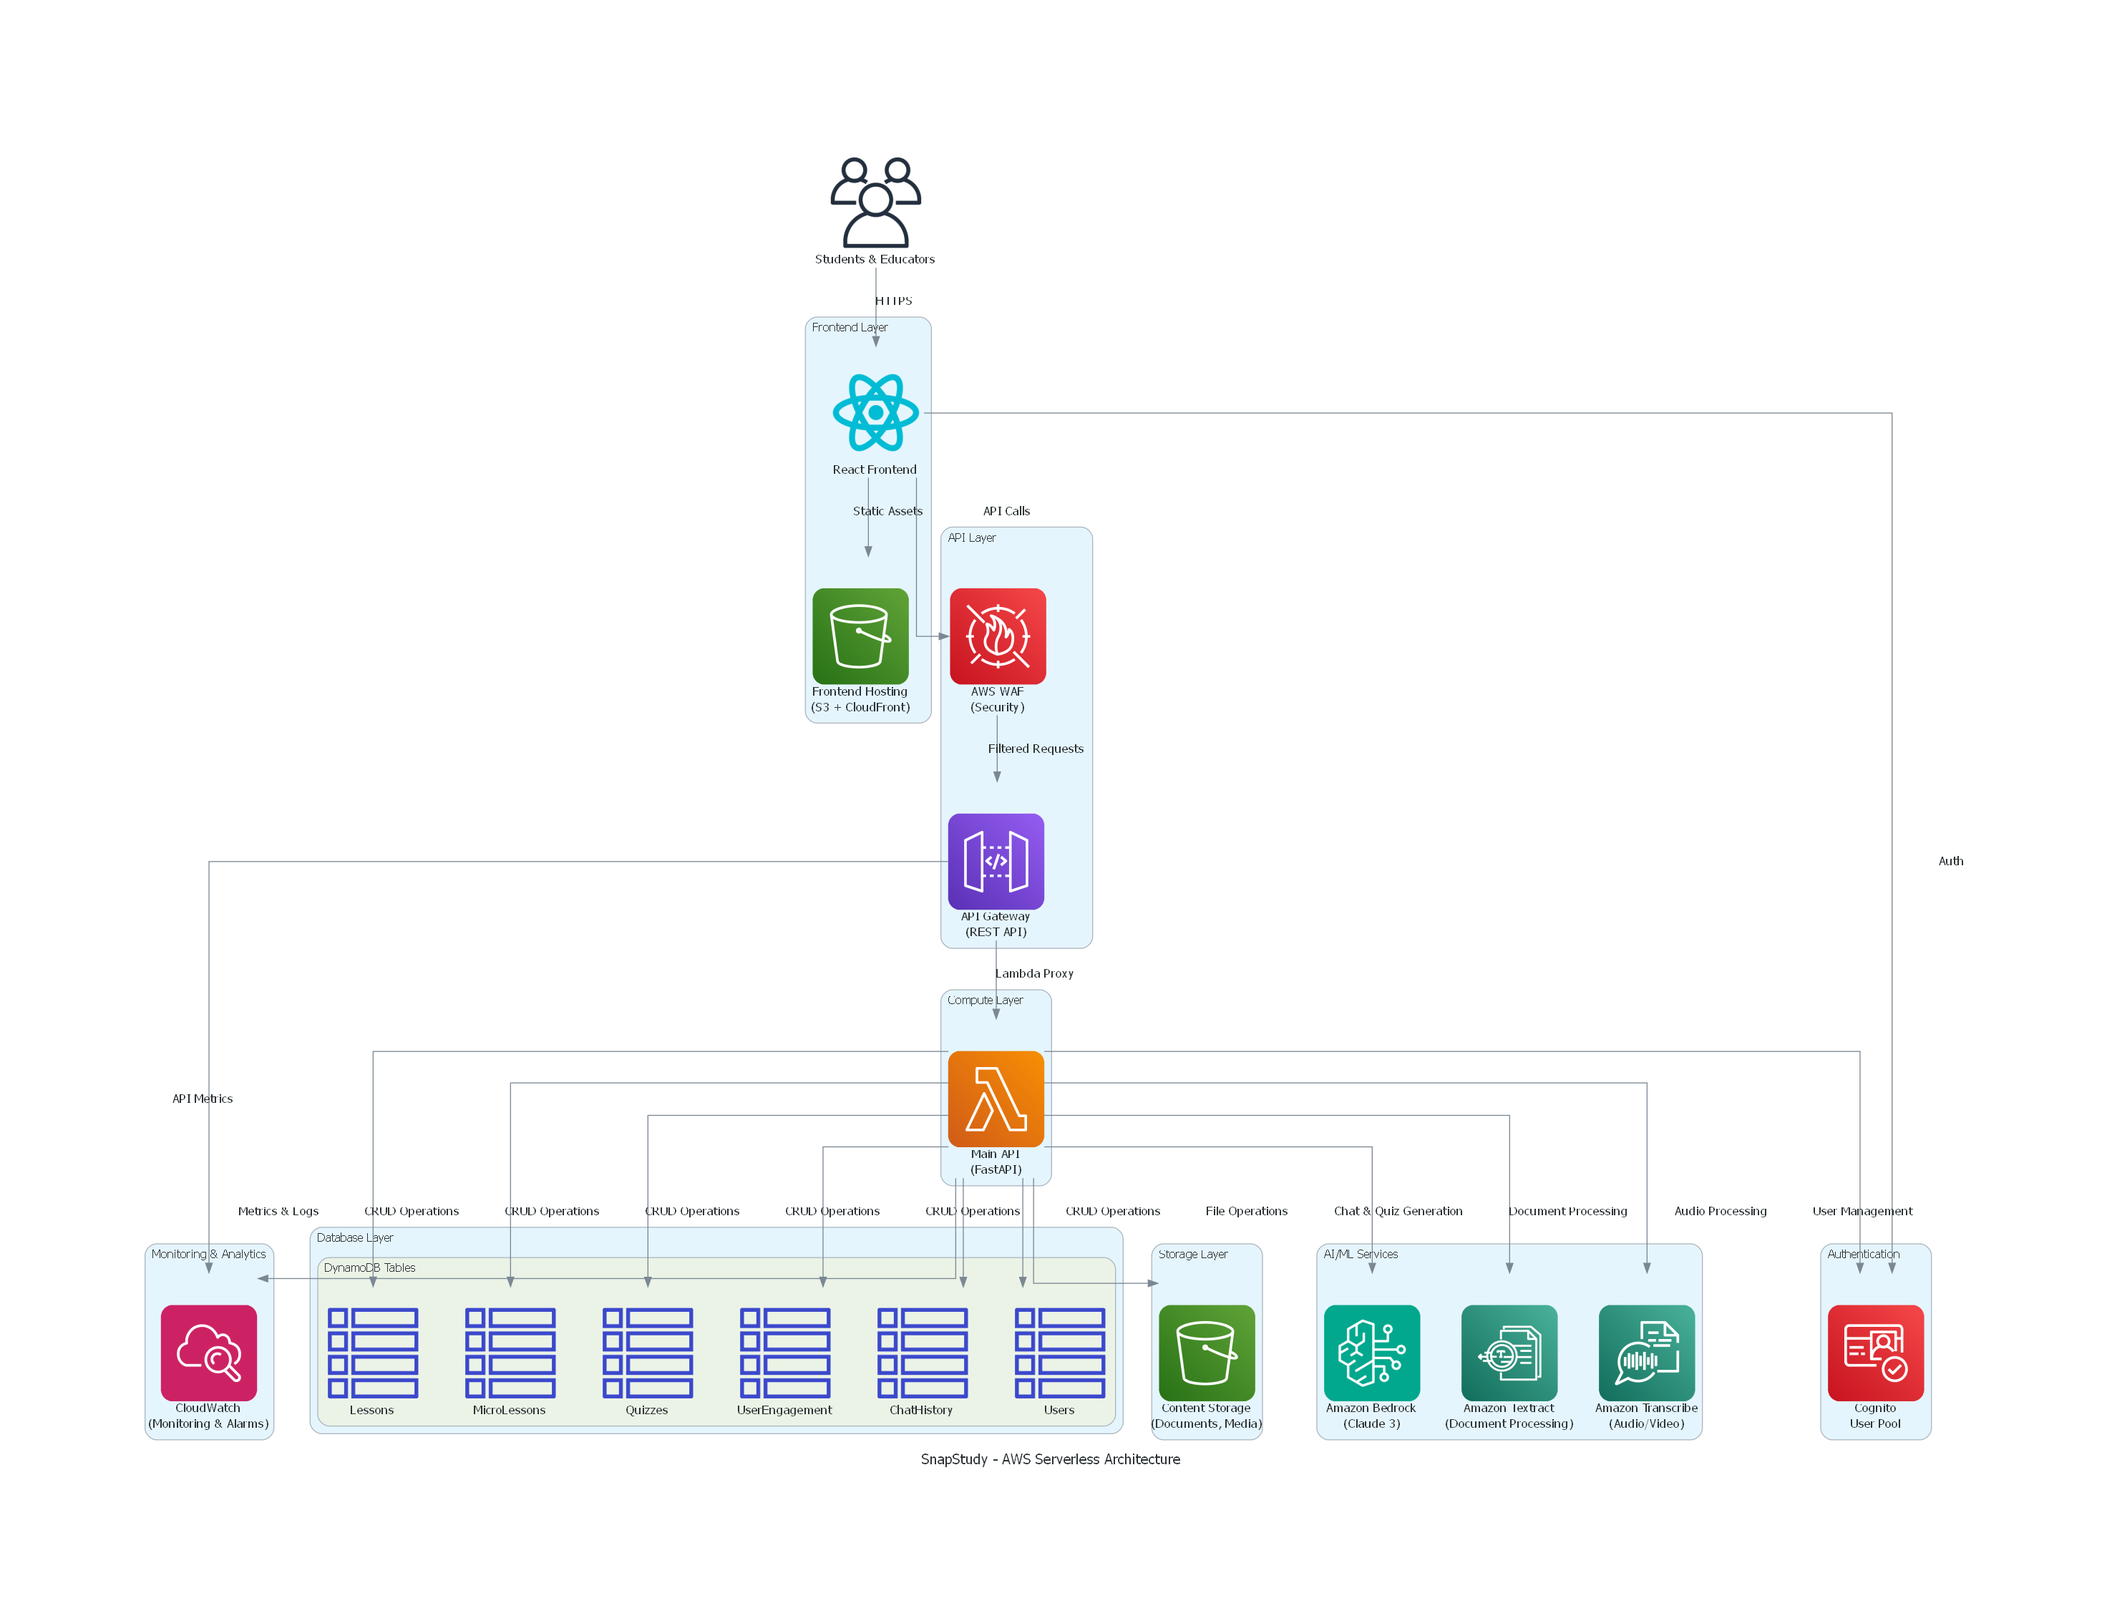
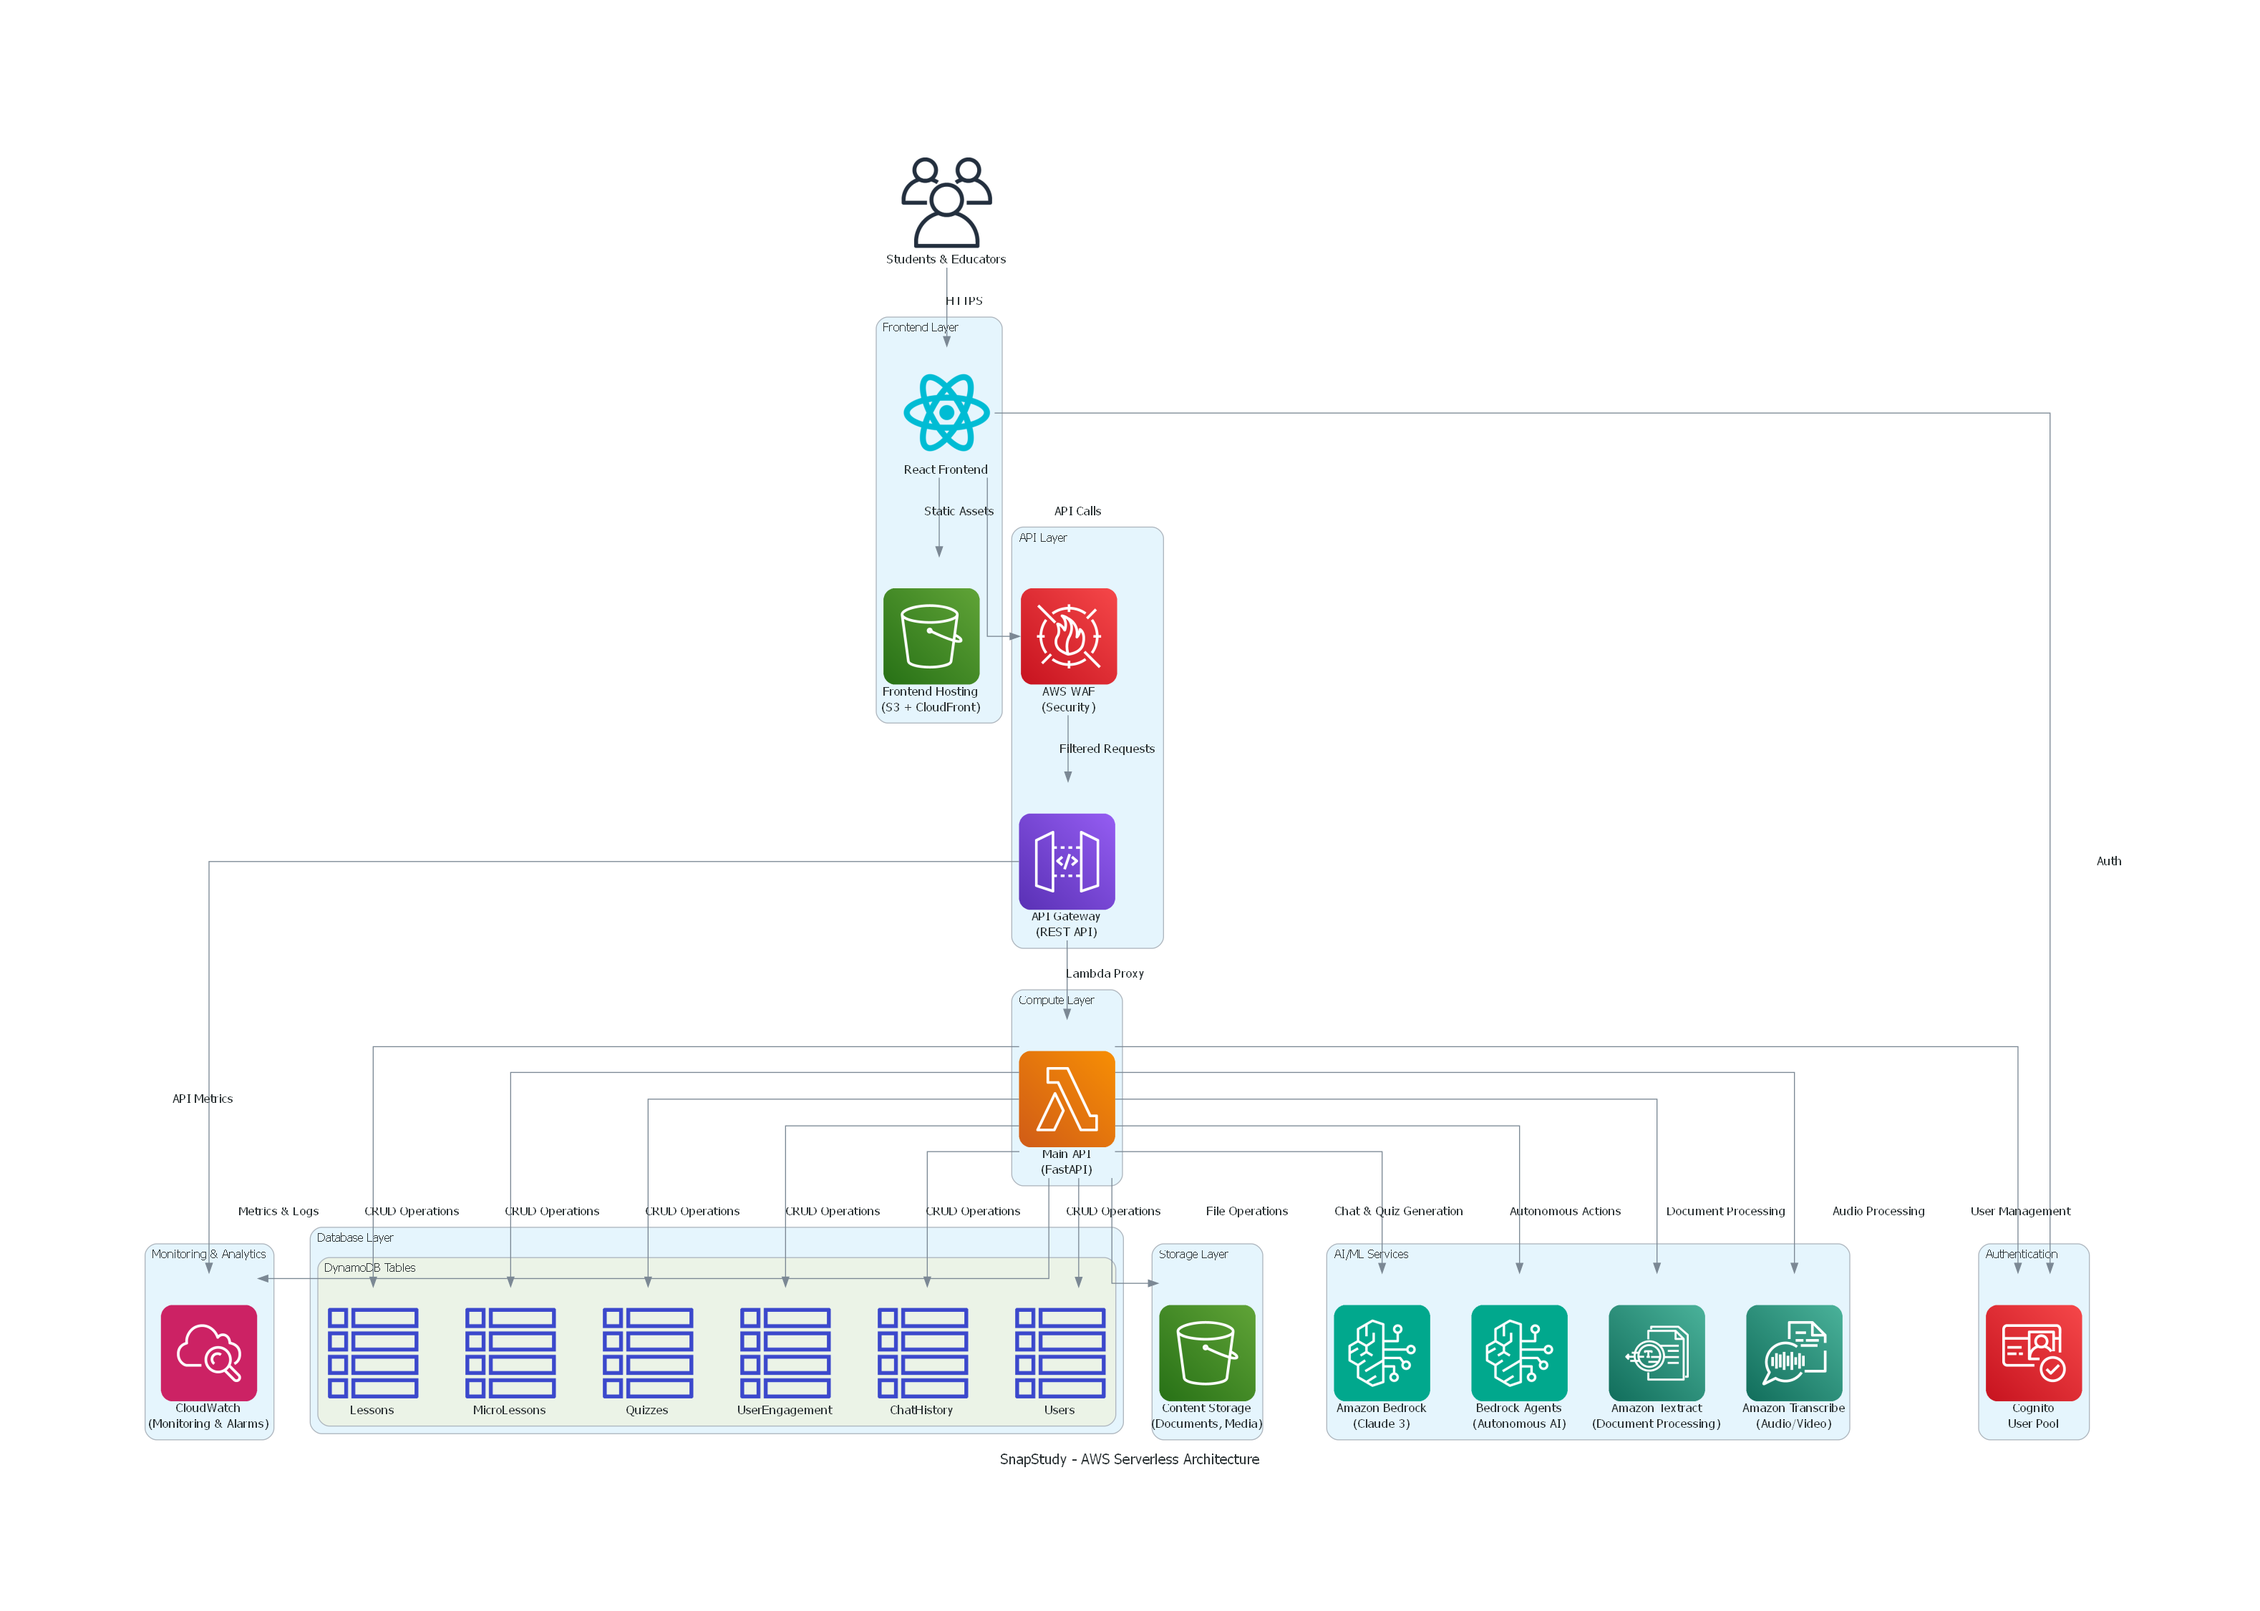
Fix architecture diagrams to include Bedrock Agents
- Added Bedrock Agents for autonomous AI generation to main architecture diagram
- Updated data flow diagram with comprehensive service flows
- Fixed inconsistency between architecture and data flow diagrams
- Both diagrams now accurately show:
  - Amazon Bedrock (Claude 3) for chat & quiz generation
  - Bedrock Agents for autonomous AI actions
  - Complete data flow with all 6 DynamoDB tables
  - Proper service connections and edge labels
  - Monitoring and security layers

Updated files:
- snapstudy_architecture.png (added Bedrock Agents)
- snapstudy_data_flow.png (enhanced with detailed flows)
- create_architecture_diagram.py (fixed diagram generation)

diff --git a/create_architecture_diagram.py b/create_architecture_diagram.py
@@ -61,6 +61,7 @@ def create_snapstudy_architecture():
             
         with Cluster("AI/ML Services"):
             bedrock = Bedrock("Amazon Bedrock\n(Claude 3)")
+            bedrock_agents = Bedrock("Bedrock Agents\n(Autonomous AI)")
             textract = Textract("Amazon Textract\n(Document Processing)")
             transcribe = Transcribe("Amazon Transcribe\n(Audio/Video)")
             
@@ -95,6 +96,7 @@ def create_snapstudy_architecture():
         
         # AI/ML operations
         lambda_api >> Edge(label="Chat & Quiz Generation") >> bedrock
+        lambda_api >> Edge(label="Autonomous Actions") >> bedrock_agents
         lambda_api >> Edge(label="Document Processing") >> textract
         lambda_api >> Edge(label="Audio Processing") >> transcribe
         
@@ -108,51 +110,80 @@ def create_detailed_flow_diagram():
     with Diagram("SnapStudy - Detailed Data Flow", 
                  filename="snapstudy_data_flow", 
                  show=False,
-                 direction="LR"):
+                 direction="TB"):
         
         # User interactions
         student = Users("Student")
         educator = Users("Educator")
         
-        with Cluster("Frontend Application"):
+        with Cluster("Frontend Layer"):
             react_app = React("React SPA")
+            frontend_s3 = S3("Frontend Hosting")
             
-        with Cluster("API Gateway + Security"):
-            waf_security = WAF("WAF Rules")
+        with Cluster("Security & API Layer"):
+            waf_security = WAF("WAF Protection")
             api_gw = APIGateway("REST API")
+            cognito_auth = Cognito("Authentication")
             
-        with Cluster("Backend Services"):
-            auth_service = Lambda("Auth Service")
-            content_service = Lambda("Content Service")
-            lesson_service = Lambda("Lesson Service")
-            chat_service = Lambda("Chat Service")
-            analytics_service = Lambda("Analytics Service")
+        with Cluster("Serverless Compute"):
+            main_lambda = Lambda("Main API\n(FastAPI)")
             
-        with Cluster("Data Persistence"):
-            user_data = DynamodbTable("User Profiles")
-            lesson_data = DynamodbTable("Lesson Content")
-            progress_data = DynamodbTable("Learning Progress")
+        with Cluster("AI & ML Services"):
+            bedrock_claude = Bedrock("Bedrock Claude 3\n(Chat & Generation)")
+            bedrock_agents = Bedrock("Bedrock Agents\n(Autonomous AI)")
+            textract_service = Textract("Textract\n(Document Processing)")
+            transcribe_service = Transcribe("Transcribe\n(Audio Processing)")
             
-        with Cluster("AI Processing"):
-            ai_bedrock = Bedrock("Claude 3\n(Chat & Generation)")
-            doc_processing = Textract("Document Analysis")
+        with Cluster("Data Storage"):
+            with Cluster("DynamoDB Tables"):
+                users_table = DynamodbTable("Users")
+                lessons_table = DynamodbTable("Lessons")
+                micro_lessons_table = DynamodbTable("MicroLessons")
+                quizzes_table = DynamodbTable("Quizzes")
+                engagement_table = DynamodbTable("UserEngagement")
+                chat_table = DynamodbTable("ChatHistory")
             
-        with Cluster("Content Storage"):
-            media_storage = S3("Media Files")
+            content_s3 = S3("Content Storage")
             
-        # Flow connections
-        student >> react_app
-        educator >> react_app
+        with Cluster("Monitoring"):
+            cloudwatch_service = Cloudwatch("CloudWatch\n(Logs & Metrics)")
+            
+        # User flows
+        student >> Edge(label="Access App") >> react_app
+        educator >> Edge(label="Access App") >> react_app
         
-        react_app >> waf_security >> api_gw
+        # Frontend flows
+        react_app >> Edge(label="Static Assets") >> frontend_s3
+        react_app >> Edge(label="API Requests") >> waf_security
         
-        api_gw >> auth_service >> user_data
-        api_gw >> content_service >> [lesson_data, media_storage]
-        api_gw >> lesson_service >> [lesson_data, progress_data]
-        api_gw >> chat_service >> ai_bedrock
-        api_gw >> analytics_service >> progress_data
+        # Security flows
+        waf_security >> Edge(label="Filtered Requests") >> api_gw
+        react_app >> Edge(label="Authentication") >> cognito_auth
         
-        content_service >> doc_processing >> media_storage
+        # API flows
+        api_gw >> Edge(label="Lambda Proxy") >> main_lambda
+        main_lambda >> Edge(label="User Management") >> cognito_auth
+        
+        # Database flows
+        main_lambda >> Edge(label="User Data") >> users_table
+        main_lambda >> Edge(label="Lesson Data") >> lessons_table
+        main_lambda >> Edge(label="Micro Content") >> micro_lessons_table
+        main_lambda >> Edge(label="Quiz Data") >> quizzes_table
+        main_lambda >> Edge(label="Analytics") >> engagement_table
+        main_lambda >> Edge(label="Chat History") >> chat_table
+        
+        # Storage flows
+        main_lambda >> Edge(label="File Operations") >> content_s3
+        
+        # AI flows
+        main_lambda >> Edge(label="Chat & Generation") >> bedrock_claude
+        main_lambda >> Edge(label="Autonomous Actions") >> bedrock_agents
+        main_lambda >> Edge(label="Document Processing") >> textract_service
+        main_lambda >> Edge(label="Audio Processing") >> transcribe_service
+        
+        # Monitoring flows
+        main_lambda >> Edge(label="Logs & Metrics") >> cloudwatch_service
+        api_gw >> Edge(label="API Metrics") >> cloudwatch_service
 
 if __name__ == "__main__":
     print("🎨 Creating SnapStudy AWS Architecture Diagrams...")
